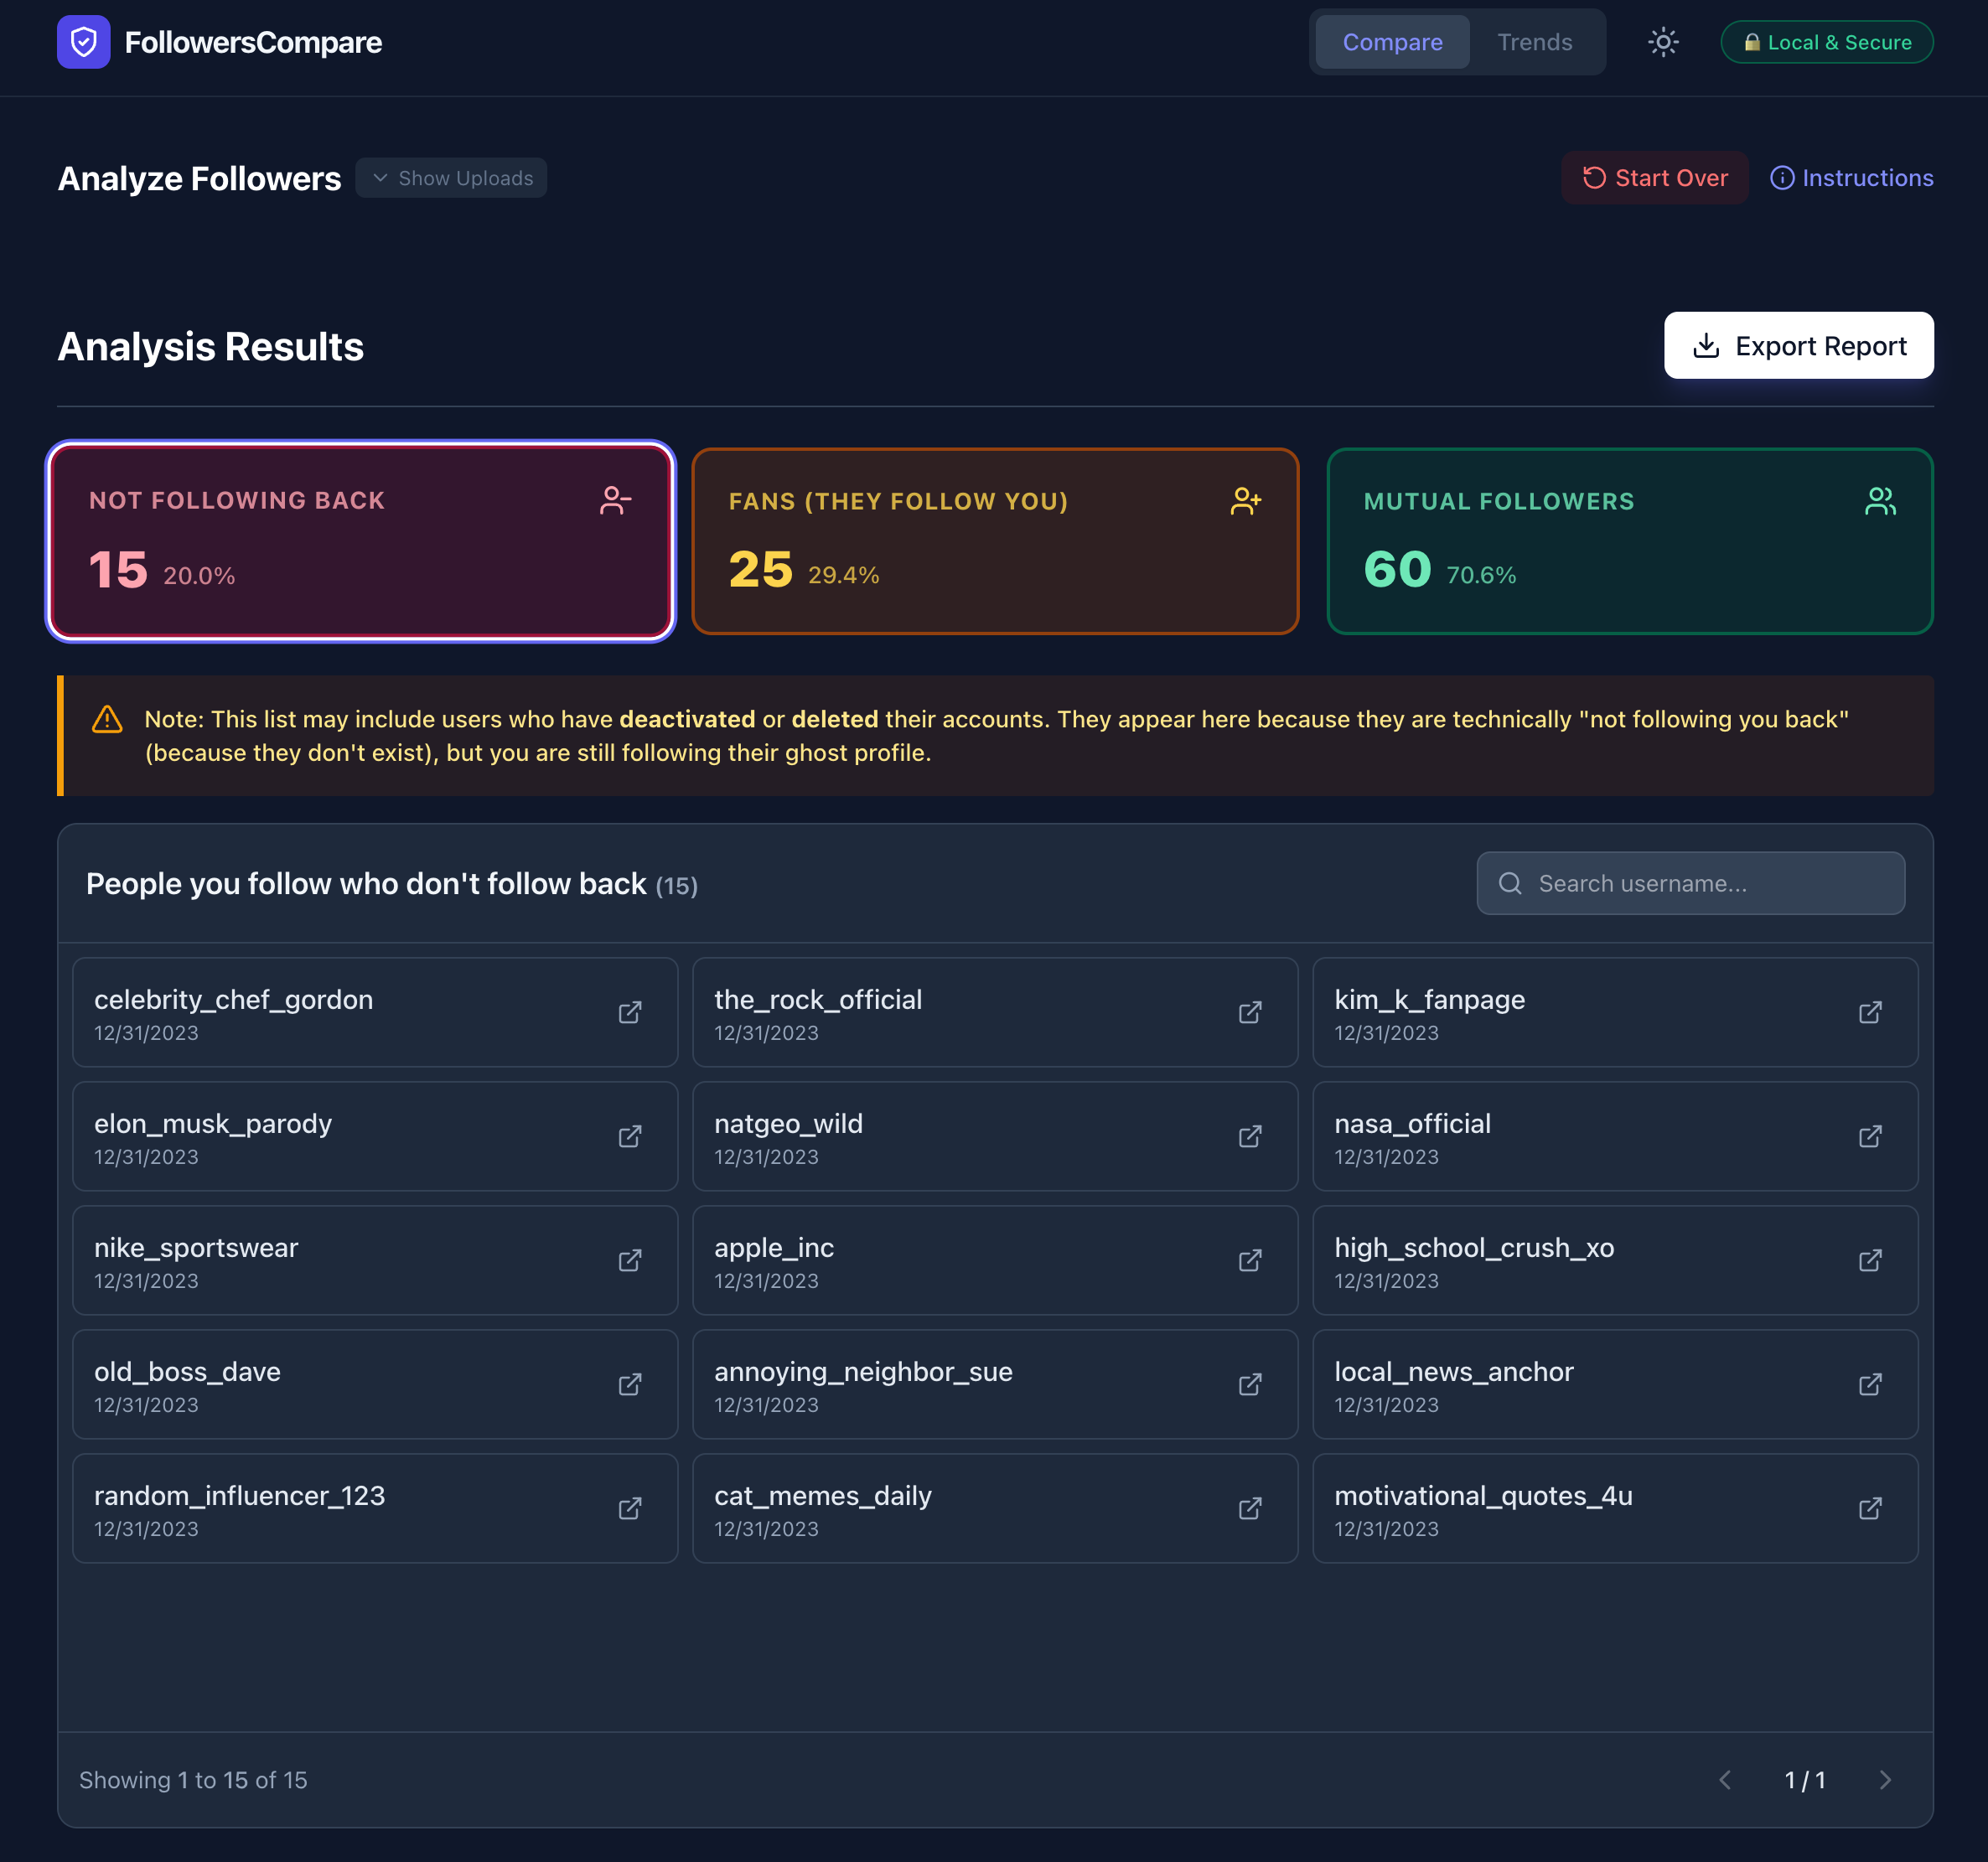
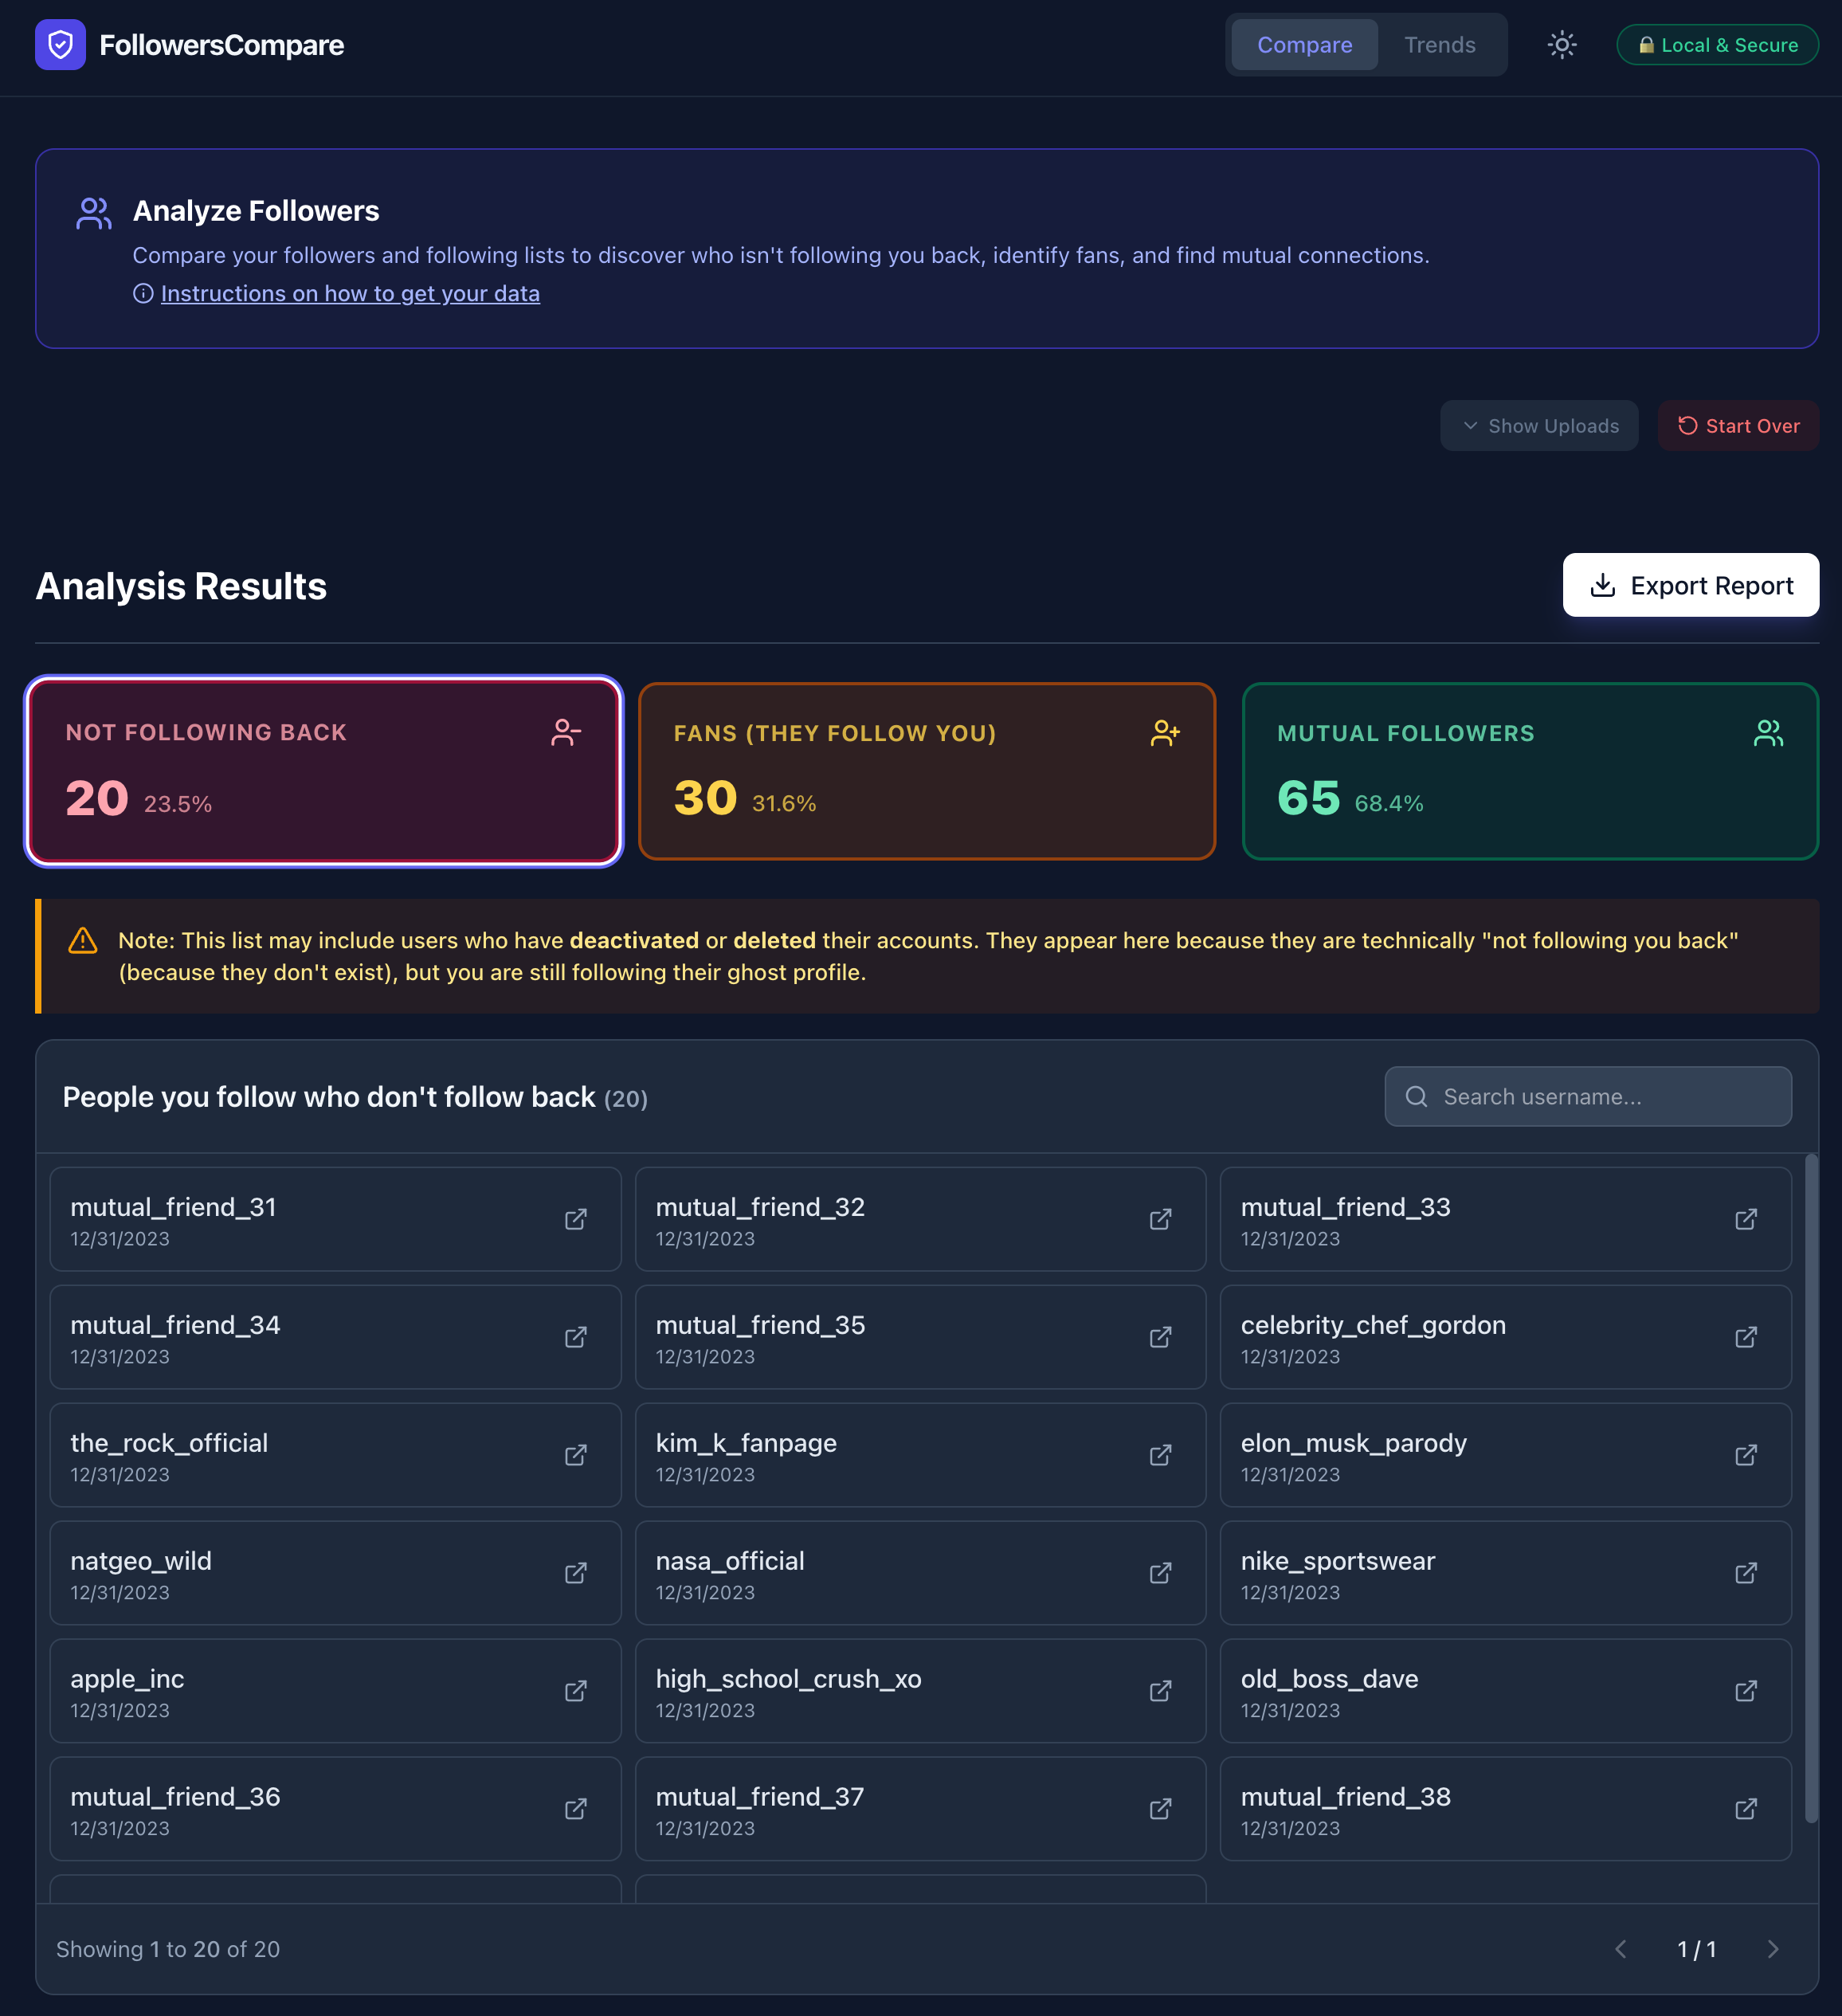
Content Updates

diff --git a/src/content/config.ts b/src/content/config.ts
@@ -4,6 +4,7 @@ const statusEnum = z.enum([
   'Production', 
   'Active Development', 
   'Planning', 
+  'Concept',
   'Paused',
   'Archived', 
   'Cancelled'

diff --git a/src/content/projects/stampatlas.md b/src/content/projects/stampatlas.md
@@ -1,12 +1,12 @@
 ---
-title: "StampAtlas (Self-Hosted)"
+title: "StampAtlas"
 description: "A Self-Hosted Passport Travel App"
-status: "Planning"
+status: "Concept"
 heroImage: "/images/thumbnails/StampAtlas-card.png"
 ---
 # A Self-Hosted Passport Travel App
 
-> **Note:** This project is its initial planning phase
+> **Note:** This project is its initial concept phase
 
 ## Purpose
 A mobile-first web application designed for tracking travel experiences through digital Passports. The goal of the self-hosted version is to provide a private, local tool for travel enthusiasts to own and track their travel data without the noise of social media features.  Passports aren't just limited to regions like states or countries, but they are desgined to track just about anything.

diff --git a/src/content/sites/stampatlas.md b/src/content/sites/stampatlas.md
@@ -1,12 +1,12 @@
 ---
-title: "StampAtlas (Public-Hosted)"
+title: "StampAtlas (Hosted)"
 description: "A Social Passport Travel App"
-status: "Planning"
+status: "Concept"
 heroImage: "/images/thumbnails/StampAtlas-card.png"
 ---
 # A Social Passport Travel App
 
-> **Note:** This site is its initial planning phase
+> **Note:** This site is its initial concept phase
 
 ## Purpose
 Buidling on the self-hosted version, the public-hosted version introduces a social layer. It connects collectors, enables verification of experiences, and creates a marketplace for unique, community-driven passports.

diff --git a/src/content/sites/followers-compare.md b/src/content/sites/followers-compare.md
@@ -7,8 +7,6 @@ heroImage: "/images/thumbnails/FollowersCompare-card.png"
 ---
 # A Privacy Focused App to Analyze Instagram Followers
 
-> **Note:** This app is currently in production.
-
 ## Purpose
 A privacy-focused tool designed to analyze your Instagram connections. It allows you to compare your "Followers" vs. "Following" lists to identify who isn't following you back, while also tracking follower trends (gains and losses) over time using historical data.
 
@@ -23,9 +21,6 @@ A privacy-focused tool designed to analyze your Instagram connections. It allows
 ## Screenshots
 #### Instructions
 <img src="/images/content/followers-0.2-instructions.png" alt="Calendar Screenshot" width="600" alt="Site Instructions"> 
-
-#### Mutual Followers
-<img src="/images/content/followers-0.2-mutual.png" alt="Calendar Screenshot" width="600" alt="Mutual Followers">  
 
 #### Not Following Back
 <img src="/images/content/followers-0.2-not_following_back.png" alt="Calendar Screenshot" width="600" alt="Not Following Back">  

diff --git a/src/content/projects/domainctrl.md b/src/content/projects/domainctrl.md
@@ -29,7 +29,7 @@ I designed this domain and certificate manager because I had so many different s
 ## Important Notes
 
 1.  **SSL Lifecycle:** This app manages the full lifecycle of certificates. It can only renew certs it created. Existing certs should be replaced by ones generated here for auto-renewal.
-2.  **Authentication:** **This app has no login.** You MUST run this behind a reverse proxy (Nginx, Traefik, etc.) with Basic Auth or SSO to secure the dashboard.
+2.  **Authentication:** **This app has no built authentication.** If you choose to expose this to the internet, it is strongly, strongly, super strongly recommended to protect your instance using a reverse proxy and authentication service (e.g., Nginx and Authentik).
 
 ## Screenshot
 
@@ -52,7 +52,7 @@ I designed this domain and certificate manager because I had so many different s
 ### Upcoming Version: v0.7
 * **Focus:** Bug Fixes and Improvements
 * **Planned Changes:**
-    * Adding other DDNS proivders (Cloudflare, Google, etc.)
+    * Adding other DNS proivders (Cloudflare, DuckDNS, Azure DNS, Google Cloud DNS are planned)
     * Code cleanup
 
 ### Upcoming Version: v0.8

diff --git a/src/content/projects/mylogbookvault.md b/src/content/projects/mylogbookvault.md
@@ -1,12 +1,12 @@
 ---
 title: "MyLogbookVault"
 description: "A Pilots Self-Hosted Digital Logbook Backup and Stats"
-status: "Planning"
+status: "Concept"
 heroImage: "/images/thumbnails/MyLogbookVault-card.png"
 ---
 # A Pilots Self-Hosted Digital Logbook Backup and Stats
 
-> **Note:** This project is its initial planning phase 
+> **Note:** This project is its initial concept phase 
 
 ## Purpose
 The primary goal is to create a **self-hosted digital backup and visualization tool** for a pilot's logbook. While tools like ForeFlight are essential for active flight management, I wanted a way to own and visualize my historical flight data.

diff --git a/src/content/sites/flyto25.md b/src/content/sites/flyto25.md
@@ -7,7 +7,7 @@ heroImage: "/images/thumbnails/flyto25-card.png"
 ---
 # My jetBlue 25 for 25 Challenge Website Archive
 
-> **Note:** ✈️ Challenge Completed: The jetBlue FlyTo25 Challenge has ended. The site now serves as a permanent archive of my journey.
+> **Note:** Challenge Completed: The jetBlue FlyTo25 Challenge has ended. The site now serves as an archive of my journey.
 
 <img src="/images/content/flyto25-cover.png" style="width: 100%; max-width: 800px; height: auto;" alt="My jetBlue FlyTo25 25 for 25 Challenge Map" />
 